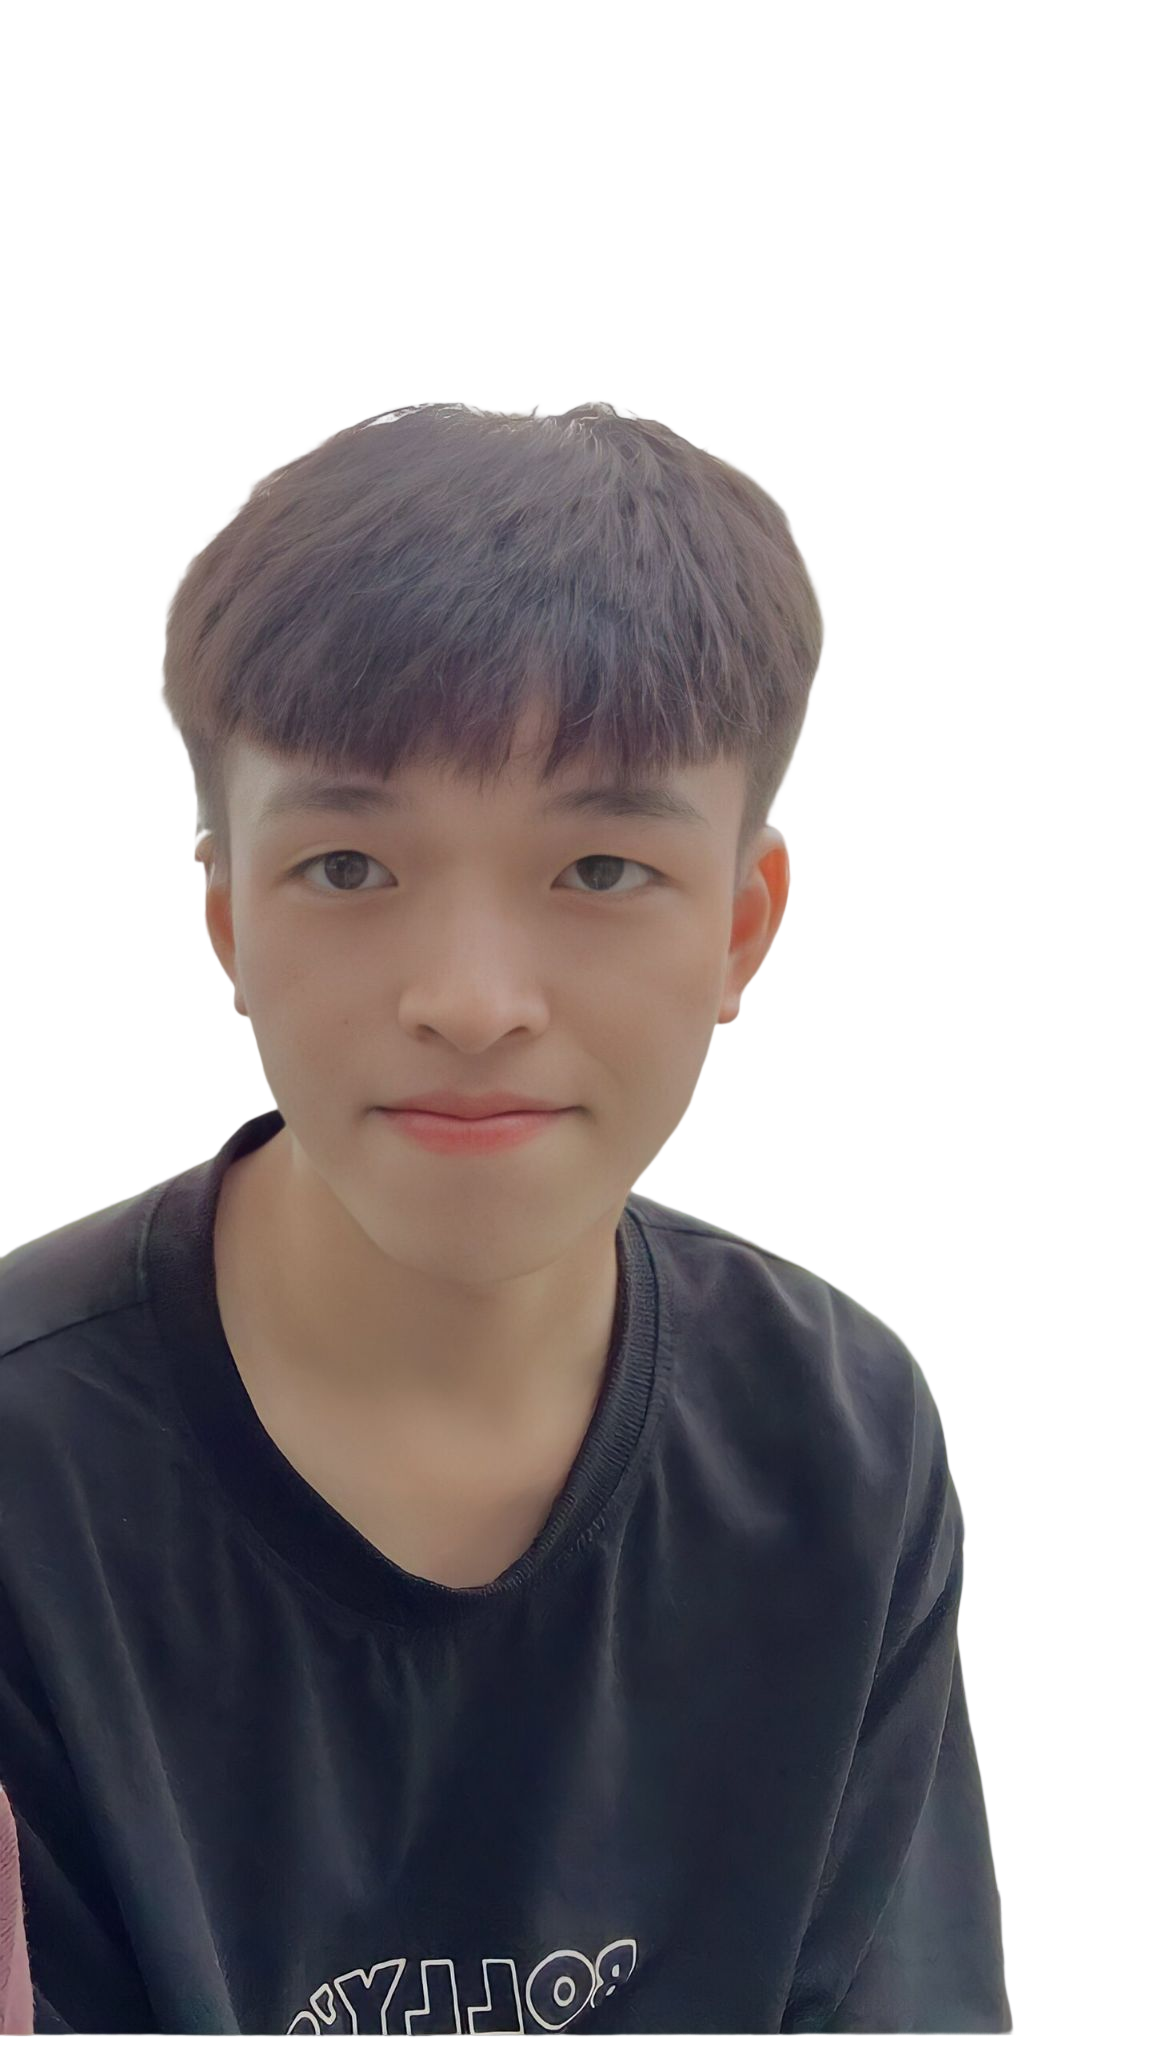
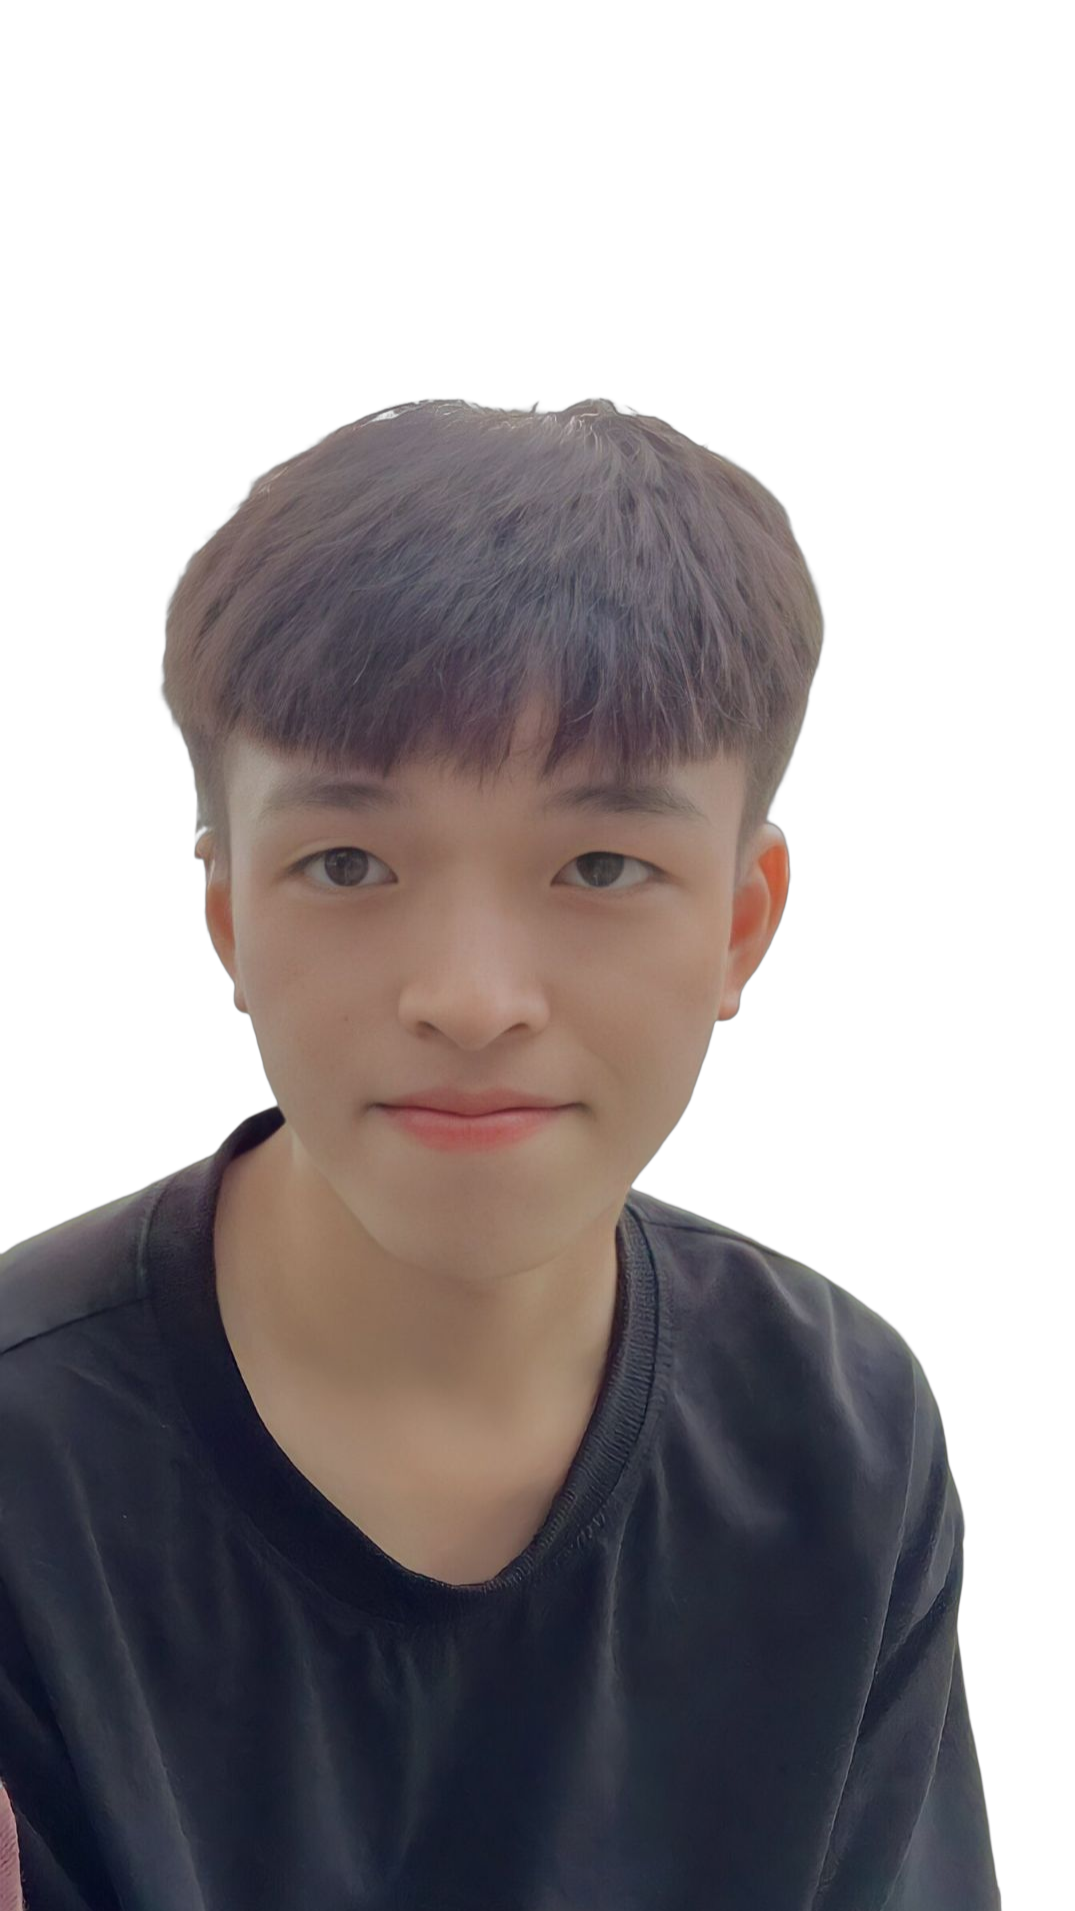
upload2

diff --git a/src/components/Intro/Intro.jsx b/src/components/Intro/Intro.jsx
@@ -48,7 +48,7 @@ const Intro = () => {
       <div className="i-right">
         <img src={Vector1} alt="" />
         <img src={Vector2} alt="" />
-        <img class="boy" src={boy} alt="" />
+        <img  src={boy} alt="" />
         {/* animation */}
         <motion.img
           initial={{ left: "-36%" }}

diff --git a/src/components/Intro/Intro.css b/src/components/Intro/Intro.css
@@ -53,9 +53,6 @@
   flex: 1;
   position: relative;
 }
-.i-right .boy {
-  width: 400px;
-}
 .i-right > * {
   position: absolute;
   z-index: 1;
